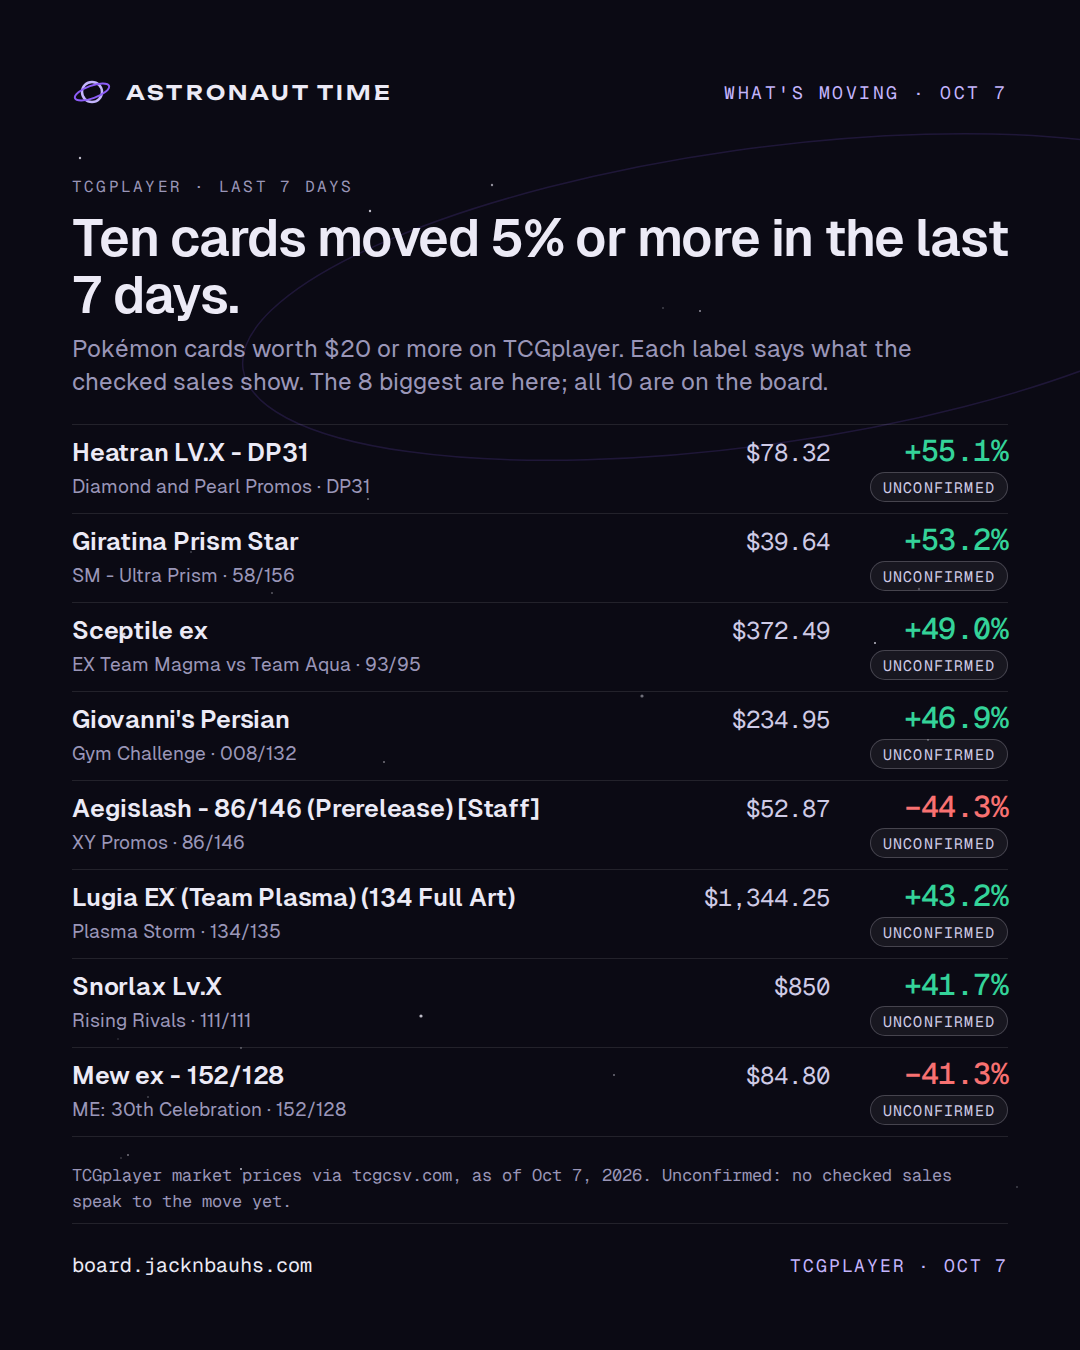
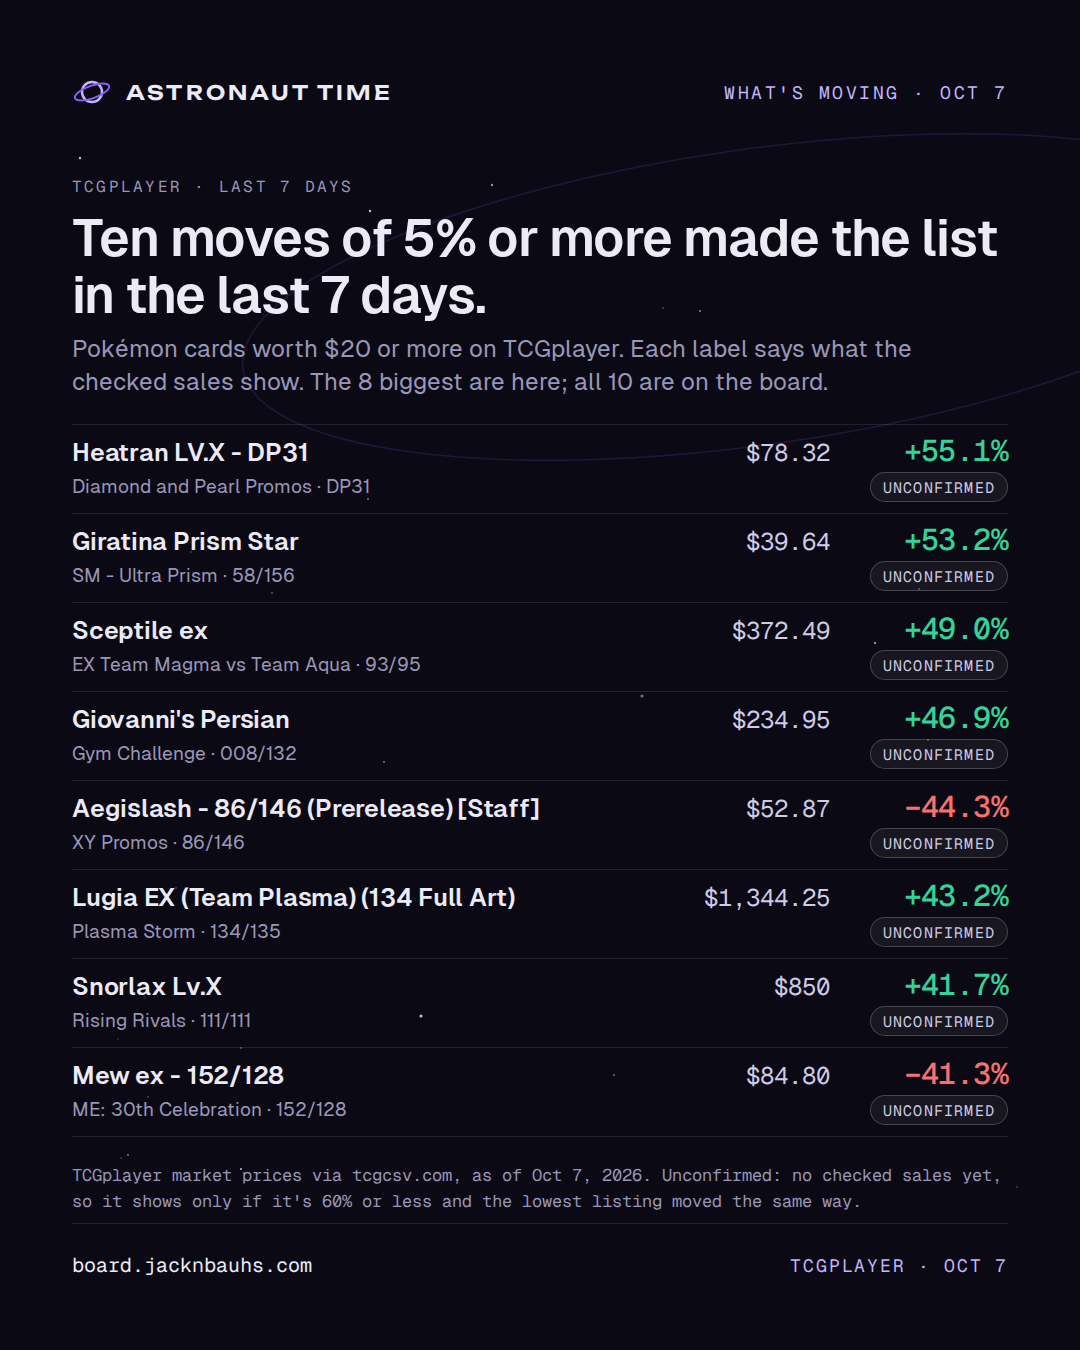
Share kit: render 2026-10-08

diff --git a/share/out/captions.md b/share/out/captions.md
@@ -94,6 +94,6 @@ Alt: Three calls on the record. Number 001: The 30th Celebration Booster Bundle'
 
 ## moving-2026-W41.png
 
-What's moving on TCGplayer, as of Oct 7, 2026. Ten cards moved 5% or more in the last 7 days. Heatran LV.X - DP31 (Diamond and Pearl Promos · DP31): $78.32, +55.1%, unconfirmed. Giratina Prism Star (SM - Ultra Prism · 58/156): $39.64, +53.2%, unconfirmed. Sceptile ex (EX Team Magma vs Team Aqua · 93/95): $372.49, +49.0%, unconfirmed. Giovanni's Persian (Gym Challenge · 008/132): $234.95, +46.9%, unconfirmed. Aegislash - 86/146 (Prerelease) [Staff] (XY Promos · 86/146): $52.87, −44.3%, unconfirmed. Lugia EX (Team Plasma) (134 Full Art) (Plasma Storm · 134/135): $1,344.25, +43.2%, unconfirmed. Snorlax Lv.X (Rising Rivals · 111/111): $850, +41.7%, unconfirmed. Mew ex - 152/128 (ME: 30th Celebration · 152/128): $84.80, −41.3%, unconfirmed. Unconfirmed: no checked sales speak to the move yet. Source: TCGplayer market prices via tcgcsv.com, as of Oct 7, 2026. board.jacknbauhs.com
+What's moving on TCGplayer, as of Oct 7, 2026. Ten moves of 5% or more made the list in the last 7 days. Heatran LV.X - DP31 (Diamond and Pearl Promos · DP31): $78.32, +55.1%, unconfirmed. Giratina Prism Star (SM - Ultra Prism · 58/156): $39.64, +53.2%, unconfirmed. Sceptile ex (EX Team Magma vs Team Aqua · 93/95): $372.49, +49.0%, unconfirmed. Giovanni's Persian (Gym Challenge · 008/132): $234.95, +46.9%, unconfirmed. Aegislash - 86/146 (Prerelease) [Staff] (XY Promos · 86/146): $52.87, −44.3%, unconfirmed. Lugia EX (Team Plasma) (134 Full Art) (Plasma Storm · 134/135): $1,344.25, +43.2%, unconfirmed. Snorlax Lv.X (Rising Rivals · 111/111): $850, +41.7%, unconfirmed. Mew ex - 152/128 (ME: 30th Celebration · 152/128): $84.80, −41.3%, unconfirmed. Unconfirmed: no checked sales yet, so it shows only if it's 60% or less and the lowest listing moved the same way. Source: TCGplayer market prices via tcgcsv.com, as of Oct 7, 2026. board.jacknbauhs.com
 
-Alt: What's moving: the 8 biggest TCGplayer moves in the last 7 days, each with its market price, its change and the label for what checked sales show.
+Alt: What's moving: the 8 biggest of the 10 TCGplayer moves on the list in the last 7 days, each with its market price, its change and the label for what checked sales show.
